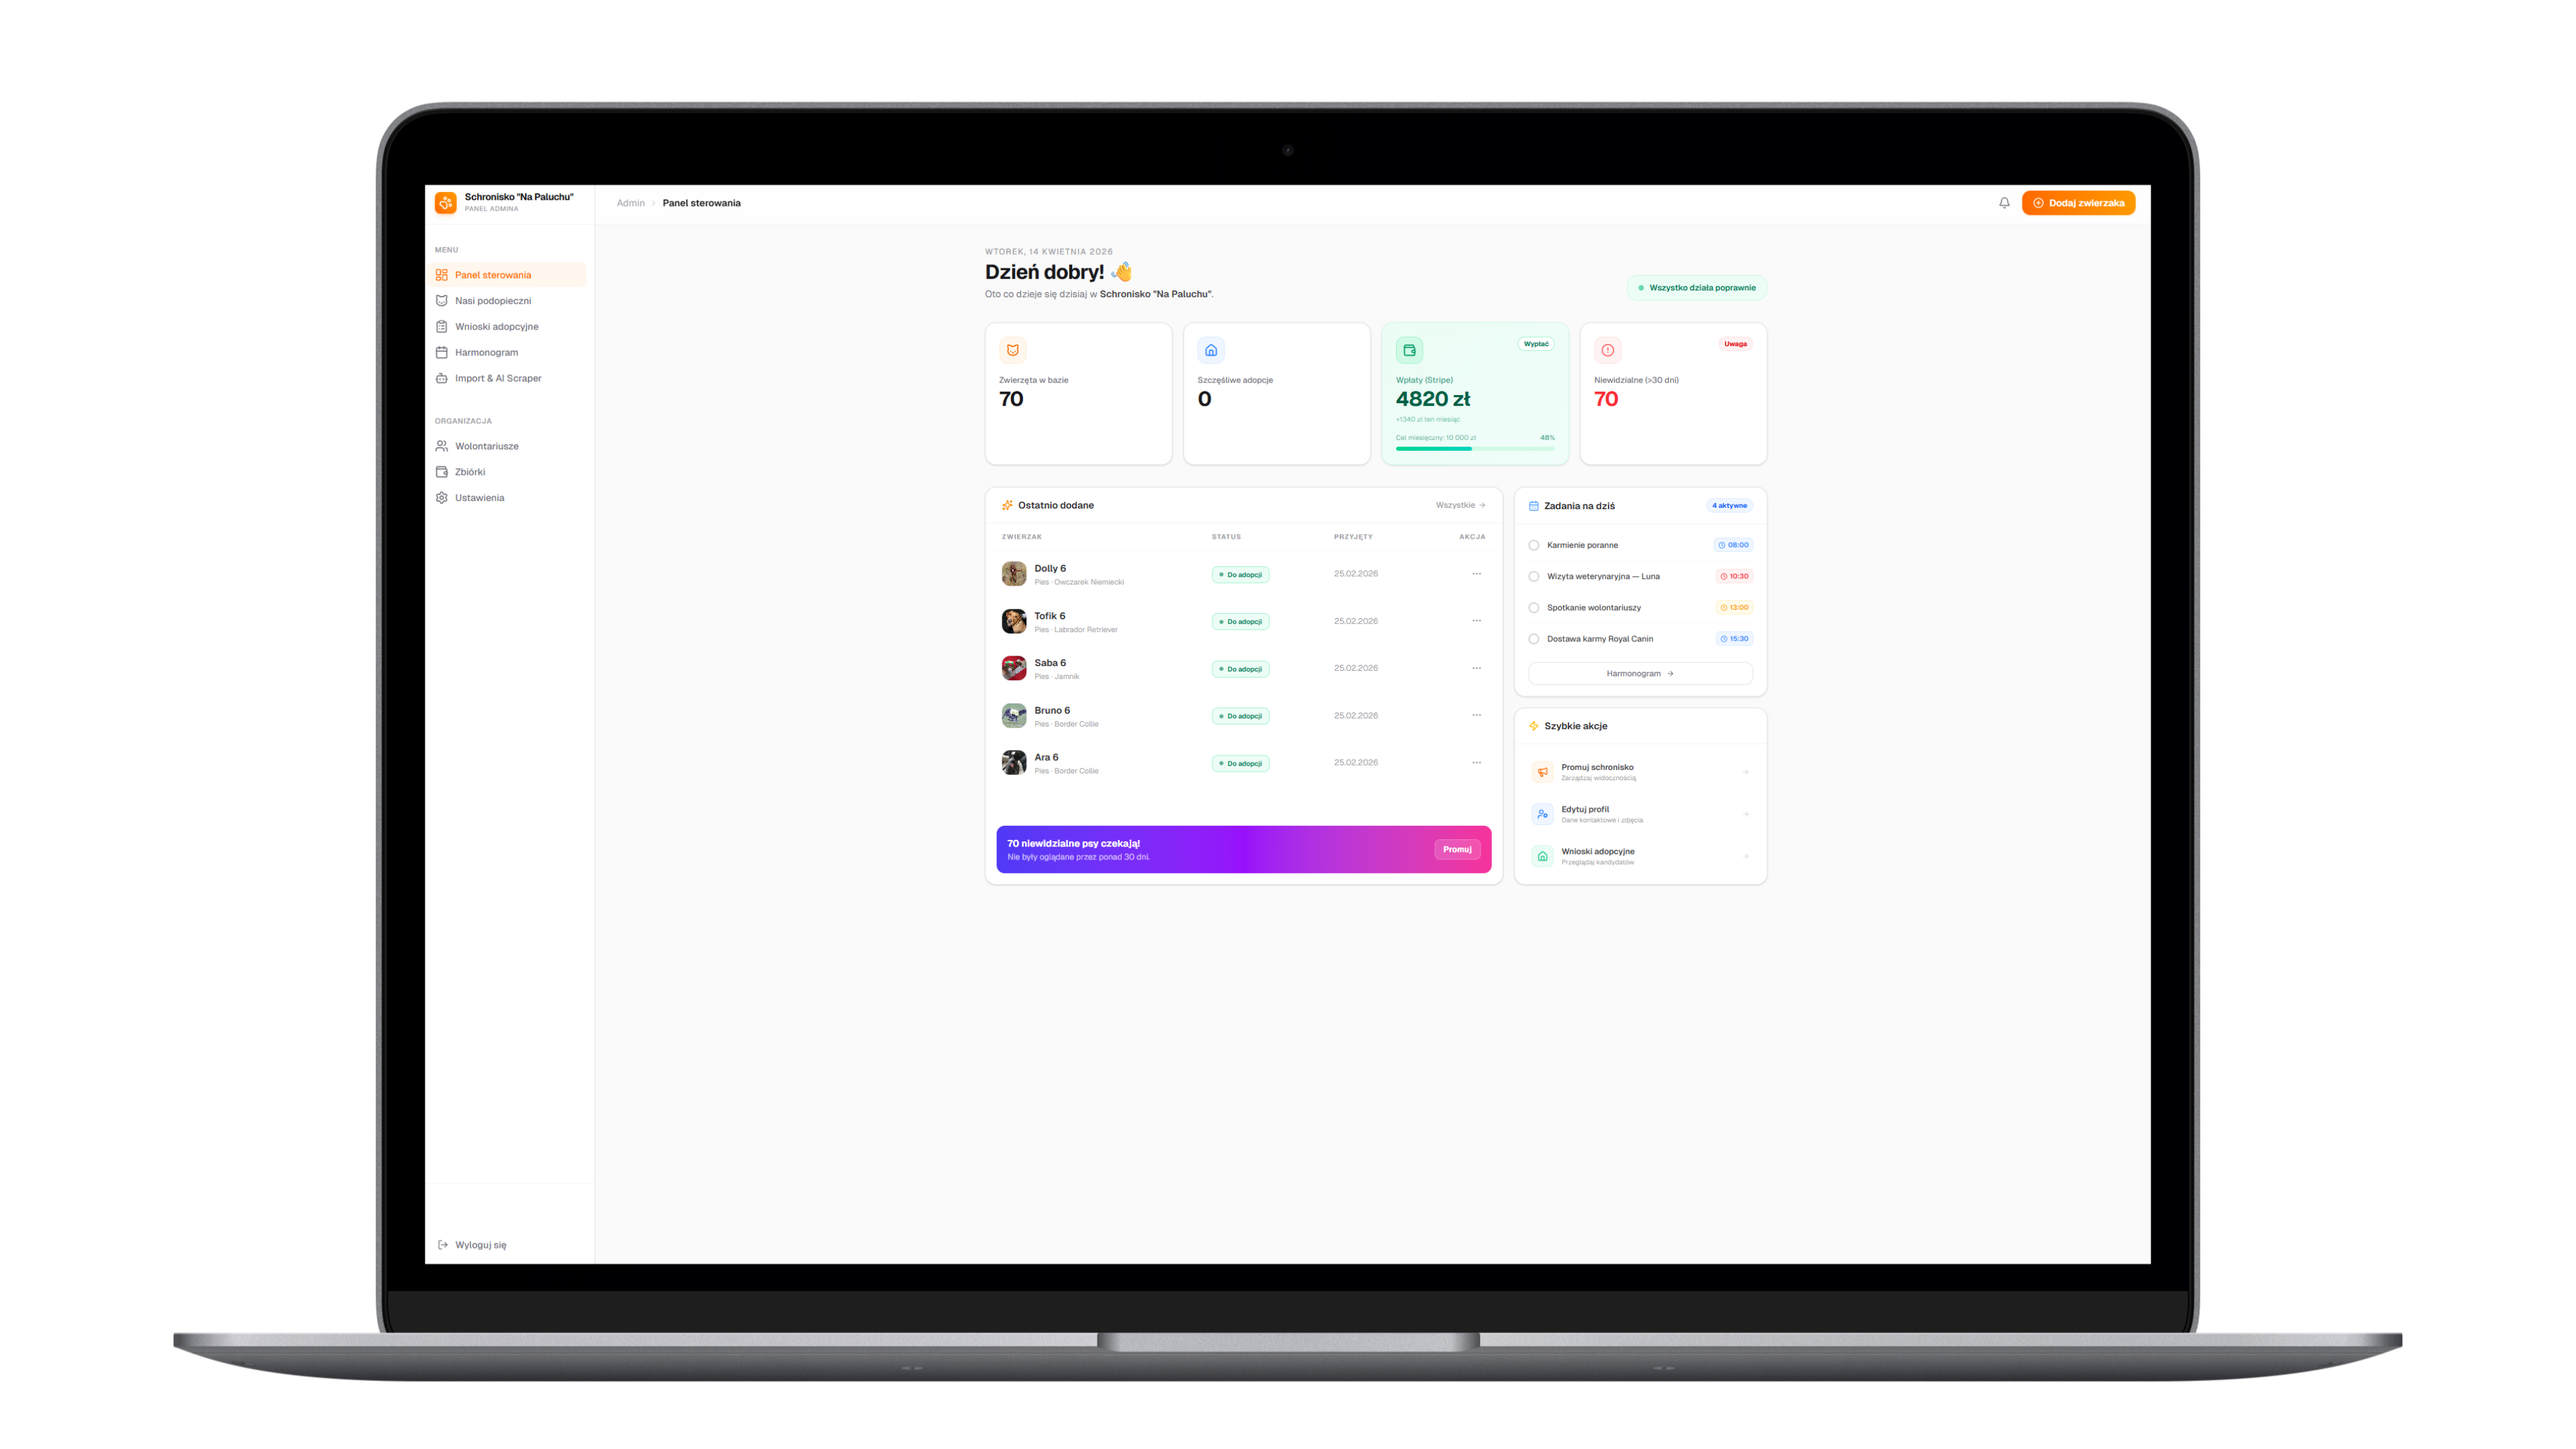
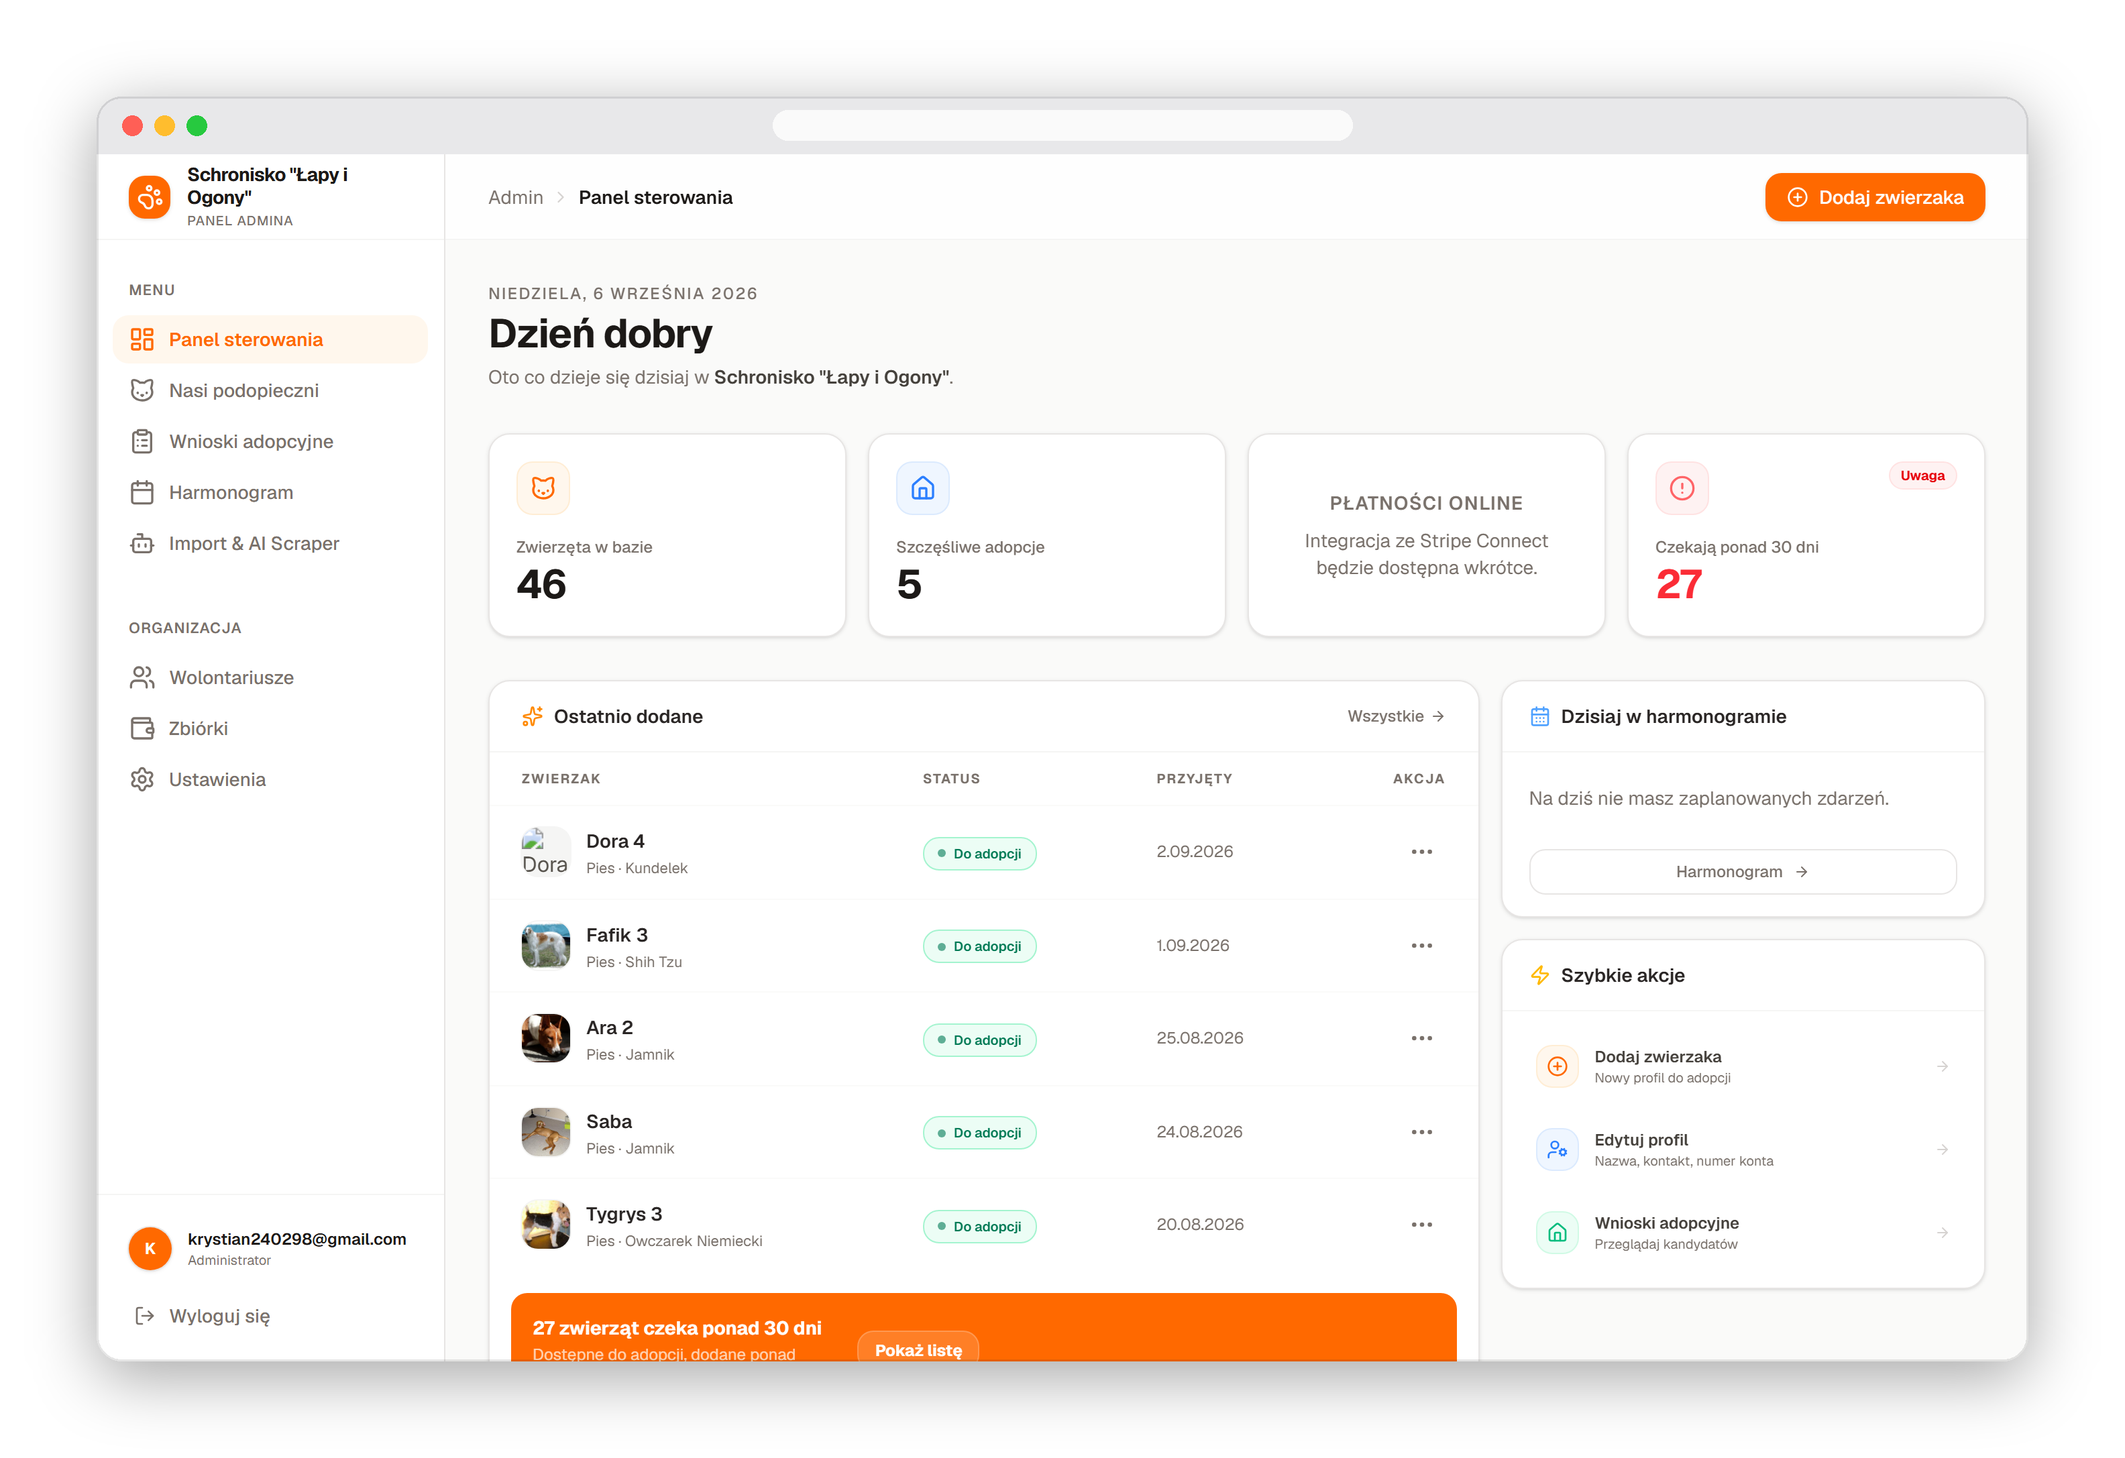
feat(adoptio): re-shoot the carousel against the live product
The Adoptio screenshots had drifted from the deployed site: a new hero,
new copy and photo, a Stripe tile that now says the integration is not
live yet, and a shelter panel that had moved on entirely.

Re-shot with capture_adoptio.py at deviceScaleFactor=2 and framed with
frame_screens.py — browser chrome for the desktop screens, phone bezel
for the mobile one — so Adoptio now matches Ania Kampania. The photoreal
mockups are gone: shots.so is no longer available, so that look could not
be reproduced or maintained.

Public pages are shot from a clean logged-out profile, which also fixes
the blog slide that had leaked the logged-in navbar.

The Specialists slide is dropped. The module is switched off on live and
returns once the site has traffic; the PNG stays in public/ for then.

SlideType is now "framed" | "flat". Every re-framed slide carries its own
chrome and needs no scaling — the old scale(1.2375), meant for bare cards
on a large canvas, would have sliced the chrome off both edges. Kanban
keeps "flat" because its image is unchanged: it waits on the broken
"Kropka" thumbnail being fixed on live, then gets re-shot and flipped.

diff --git a/src/translations/index.ts b/src/translations/index.ts
@@ -196,7 +196,7 @@ export const translations: Record<string, Record<string, string>> = {
     'adoptme.solution.label': '02 — Solution',
     'adoptme.solution': 'The match is computed from the eleven answers the quiz collects before it asks where you live: species, sex, age, size, housing, lifestyle, experience, children, other animals, allergies — location last. A tag-based algorithm scores every animal against those answers and returns match points together with the reasons behind them; the top thirty go to Gemini for a second opinion.',
     'adoptme.result.label': '03 — Result',
-    'adoptme.result': 'A working platform, deployed and in active development. Shelters add and update their own animals in a panel, the quiz returns a list ranked by match points, with a justification attached to each animal, and the adoption Kanban shows which stage each request has reached. Donations are taken with no commission — the platform is built to earn elsewhere, through partnerships with brands and through the "Starter Kit" and "Specialists" sections, so the part that matters to adopters stays free. Adoptio is a bridge, not a replacement for contact: a request carries a phone number, the shelter calls, and everything after that happens between the two of them. Product design, frontend, backend and the Gemini integration — built end to end by one person.',
+    'adoptme.result': 'A working platform, deployed and in active development. Shelters add and update their own animals in a panel, the quiz returns a list ranked by match points, with a justification attached to each animal, and the adoption Kanban shows which stage each request has reached. The revenue model is designed but not switched on yet: donations are to be taken with no commission, and the platform is built to earn elsewhere — through partnerships with brands and through the "Starter Kit" and "Specialists" sections — so the part that matters to adopters stays free. Payments and the Specialists module are waiting on traffic; turning them on earlier would be building for an empty room. Adoptio is a bridge, not a replacement for contact: a request carries a phone number, the shelter calls, and everything after that happens between the two of them. Product design, frontend, backend and the Gemini integration — built end to end by one person.',
     'adoptme.feature1.title': 'Lifestyle Quiz',
     'adoptme.feature1.desc': 'Eleven steps, and location is the last of them: species, sex, age, size, housing, lifestyle, experience, children, other animals, allergies, and only then the postal code. You describe the household first and narrow the map afterwards. Every answer becomes a criterion the algorithm scores against — the result is match points across all eleven, not an activity rating with the rest attached to it.',
     'adoptme.feature2.title': 'Local Search & Shelter Map',
@@ -253,18 +253,16 @@ export const translations: Record<string, Record<string, string>> = {
     'adoptme.slide.search': 'SEARCH & FILTERS',
     'adoptme.slide.quiz': 'LIFESTYLE QUIZ',
     'adoptme.slide.pet': 'ANIMAL PROFILE',
-    'adoptme.slide.mobile': 'MOBILE VIEWS',
+    'adoptme.slide.mobile': 'MOBILE VIEW',
     'adoptme.slide.dashboard': 'SHELTER PANEL',
-    'adoptme.slide.specialists': 'SPECIALISTS',
     'adoptme.slide.kanban': 'ADOPTION KANBAN',
     'adoptme.slide.blog': 'BLOG',
     'adoptme.alt.matching': 'Adoptio homepage showing matched animals',
     'adoptme.alt.search': 'Adoptio search page with active filters',
     'adoptme.alt.quiz': 'The Adoptio lifestyle quiz',
-    'adoptme.alt.pet': 'Profile of an animal named Duszek on Adoptio',
-    'adoptme.alt.mobile': 'Three mobile views of Adoptio',
+    'adoptme.alt.pet': 'Profile of an animal named Fela on Adoptio',
+    'adoptme.alt.mobile': 'Adoptio on a phone — an animal profile',
     'adoptme.alt.dashboard': 'Adoptio shelter panel with key figures',
-    'adoptme.alt.specialists': 'Specialist profile on Adoptio',
     'adoptme.alt.kanban': 'Adoption request Kanban in the Adoptio shelter panel',
     'adoptme.alt.blog': 'Adoptio blog section',
 
@@ -646,7 +644,7 @@ export const translations: Record<string, Record<string, string>> = {
     'adoptme.solution.label': '02 — Rozwiązanie',
     'adoptme.solution': 'Dopasowanie liczy się z jedenastu odpowiedzi, o które quiz pyta, zanim zapyta o miejsce: gatunek, płeć, wiek, wielkość, warunki mieszkaniowe, styl życia, doświadczenie, dzieci, inne zwierzęta, alergie — lokalizacja na końcu. Algorytm oparty na tagach ocenia każde zwierzę względem tych odpowiedzi i zwraca punkty dopasowania wraz z powodami; trzydzieści najlepszych trafia do Gemini po drugą opinię.',
     'adoptme.result.label': '03 — Rezultat',
-    'adoptme.result': 'Działająca platforma, wdrożona i rozwijana. Schroniska same dodają i aktualizują swoje zwierzęta w panelu, quiz zwraca listę uszeregowaną według punktów dopasowania, z uzasadnieniem przy każdym zwierzęciu, a kanban adopcji pokazuje, na jakim etapie jest każde zgłoszenie. Wpłaty przyjmowane są bez prowizji — platforma ma zarabiać gdzie indziej, na współpracy z markami oraz na sekcjach "Wyprawka" i "Specjaliści", żeby to, co ważne dla osób adoptujących, zostało bezpłatne. Adoptio jest pomostem, a nie zamiennikiem kontaktu: przy zgłoszeniu jest numer telefonu, schronisko dzwoni, a wszystko po tym dzieje się już między nimi. Projekt produktu, frontend, backend i integracja z Gemini — całość zbudowana przez jedną osobę.',
+    'adoptme.result': 'Działająca platforma, wdrożona i rozwijana. Schroniska same dodają i aktualizują swoje zwierzęta w panelu, quiz zwraca listę uszeregowaną według punktów dopasowania, z uzasadnieniem przy każdym zwierzęciu, a kanban adopcji pokazuje, na jakim etapie jest każde zgłoszenie. Model zarabiania jest zaprojektowany, ale jeszcze nieuruchomiony: wpłaty mają być przyjmowane bez prowizji, a platforma ma zarabiać gdzie indziej — na współpracy z markami oraz na sekcjach "Wyprawka" i "Specjaliści" — żeby to, co ważne dla osób adoptujących, zostało bezpłatne. Integracja płatności i moduł Specjalistów czekają na ruch na stronie; włączanie ich wcześniej byłoby budowaniem pod pustą salę. Adoptio jest pomostem, a nie zamiennikiem kontaktu: przy zgłoszeniu jest numer telefonu, schronisko dzwoni, a wszystko po tym dzieje się już między nimi. Projekt produktu, frontend, backend i integracja z Gemini — całość zbudowana przez jedną osobę.',
     'adoptme.feature1.title': 'Quiz stylu życia',
     'adoptme.feature1.desc': 'Jedenaście kroków, a lokalizacja jest ostatnim z nich: gatunek, płeć, wiek, wielkość, warunki mieszkaniowe, styl życia, doświadczenie, dzieci, inne zwierzęta, alergie i dopiero na końcu kod pocztowy. Najpierw opisujesz swój dom, mapę zawężasz później. Każda odpowiedź staje się kryterium, według którego algorytm ocenia — wynikiem są punkty dopasowania ze wszystkich jedenastu, a nie ocena aktywności z doklejoną resztą.',
     'adoptme.feature2.title': 'Wyszukiwanie lokalne i mapa schronisk',
@@ -703,18 +701,16 @@ export const translations: Record<string, Record<string, string>> = {
     'adoptme.slide.search': 'WYSZUKIWANIE I FILTRY',
     'adoptme.slide.quiz': 'QUIZ STYLU ŻYCIA',
     'adoptme.slide.pet': 'PROFIL ZWIERZĘCIA',
-    'adoptme.slide.mobile': 'WIDOKI MOBILNE',
+    'adoptme.slide.mobile': 'WIDOK MOBILNY',
     'adoptme.slide.dashboard': 'PANEL SCHRONISKA',
-    'adoptme.slide.specialists': 'SPECJALIŚCI',
     'adoptme.slide.kanban': 'KANBAN ADOPCJI',
     'adoptme.slide.blog': 'BLOG',
     'adoptme.alt.matching': 'Strona główna Adoptio z dopasowanymi zwierzętami',
     'adoptme.alt.search': 'Wyszukiwarka Adoptio z aktywnymi filtrami',
     'adoptme.alt.quiz': 'Quiz stylu życia w Adoptio',
-    'adoptme.alt.pet': 'Profil zwierzęcia o imieniu Duszek w Adoptio',
-    'adoptme.alt.mobile': 'Trzy widoki mobilne Adoptio',
+    'adoptme.alt.pet': 'Profil zwierzęcia o imieniu Fela w Adoptio',
+    'adoptme.alt.mobile': 'Adoptio na telefonie — profil zwierzęcia',
     'adoptme.alt.dashboard': 'Panel schroniska w Adoptio z kluczowymi danymi',
-    'adoptme.alt.specialists': 'Profil specjalisty w Adoptio',
     'adoptme.alt.kanban': 'Kanban zgłoszeń adopcyjnych w panelu schroniska',
     'adoptme.alt.blog': 'Sekcja blogowa w Adoptio',
 

diff --git a/src/app/projects/adoptio/page.tsx b/src/app/projects/adoptio/page.tsx
@@ -12,18 +12,22 @@ import { UpNextCard } from "@/components/ui/UpNextCard";
 
 const BRAND = PROJECTS.adoptio.brand;
 
-type SlideType = "macbook" | "flat" | "mobile";
+// "framed" — obraz niesie własną oprawę (pasek przeglądarki albo bezel telefonu
+// z frame_screens.py) i wchodzi w kadr bez skalowania.
+// "flat" — goła karta na dużym płótnie, potrzebuje skali, żeby wypełnić slajd.
+type SlideType = "framed" | "flat";
 
 const SLIDES: { src: string; labelKey: string; altKey: string; type: SlideType }[] = [
-  { src: "/adoptio-hero.png",       labelKey: "adoptme.slide.matching",    altKey: "adoptme.alt.matching",    type: "macbook" },
-  { src: "/adoptio-search.png",     labelKey: "adoptme.slide.search",      altKey: "adoptme.alt.search",      type: "flat"    },
-  { src: "/adoptio-quiz.png",       labelKey: "adoptme.slide.quiz",        altKey: "adoptme.alt.quiz",        type: "macbook" },
-  { src: "/adoptio-pet.png",        labelKey: "adoptme.slide.pet",         altKey: "adoptme.alt.pet",         type: "flat"    },
-  { src: "/adoptio-mobile.png",     labelKey: "adoptme.slide.mobile",      altKey: "adoptme.alt.mobile",      type: "mobile"  },
-  { src: "/adoptio-dashboard.png",  labelKey: "adoptme.slide.dashboard",   altKey: "adoptme.alt.dashboard",   type: "macbook" },
-  { src: "/adoptio-specialist.png", labelKey: "adoptme.slide.specialists", altKey: "adoptme.alt.specialists", type: "flat"    },
-  { src: "/adoptio-kanban.png",     labelKey: "adoptme.slide.kanban",      altKey: "adoptme.alt.kanban",      type: "flat"    },
-  { src: "/adoptio-blog.png",       labelKey: "adoptme.slide.blog",        altKey: "adoptme.alt.blog",        type: "flat"    },
+  { src: "/adoptio-hero.png",       labelKey: "adoptme.slide.matching",    altKey: "adoptme.alt.matching",    type: "framed" },
+  { src: "/adoptio-search.png",     labelKey: "adoptme.slide.search",      altKey: "adoptme.alt.search",      type: "framed" },
+  { src: "/adoptio-quiz.png",       labelKey: "adoptme.slide.quiz",        altKey: "adoptme.alt.quiz",        type: "framed" },
+  { src: "/adoptio-pet.png",        labelKey: "adoptme.slide.pet",         altKey: "adoptme.alt.pet",         type: "framed" },
+  { src: "/adoptio-mobile.png",     labelKey: "adoptme.slide.mobile",      altKey: "adoptme.alt.mobile",      type: "framed" },
+  { src: "/adoptio-dashboard.png",  labelKey: "adoptme.slide.dashboard",   altKey: "adoptme.alt.dashboard",   type: "framed" },
+  // Jedyny slajd wciąż w starej, nieoprawionej wersji — czeka na poprawkę
+  // miniatury "Kropka" na live. Po ponownym zrzucie i oprawie: type: "framed".
+  { src: "/adoptio-kanban.png",     labelKey: "adoptme.slide.kanban",      altKey: "adoptme.alt.kanban",      type: "flat"   },
+  { src: "/adoptio-blog.png",       labelKey: "adoptme.slide.blog",        altKey: "adoptme.alt.blog",        type: "framed" },
 ];
 
 export default function AdoptMeCaseStudy() {
